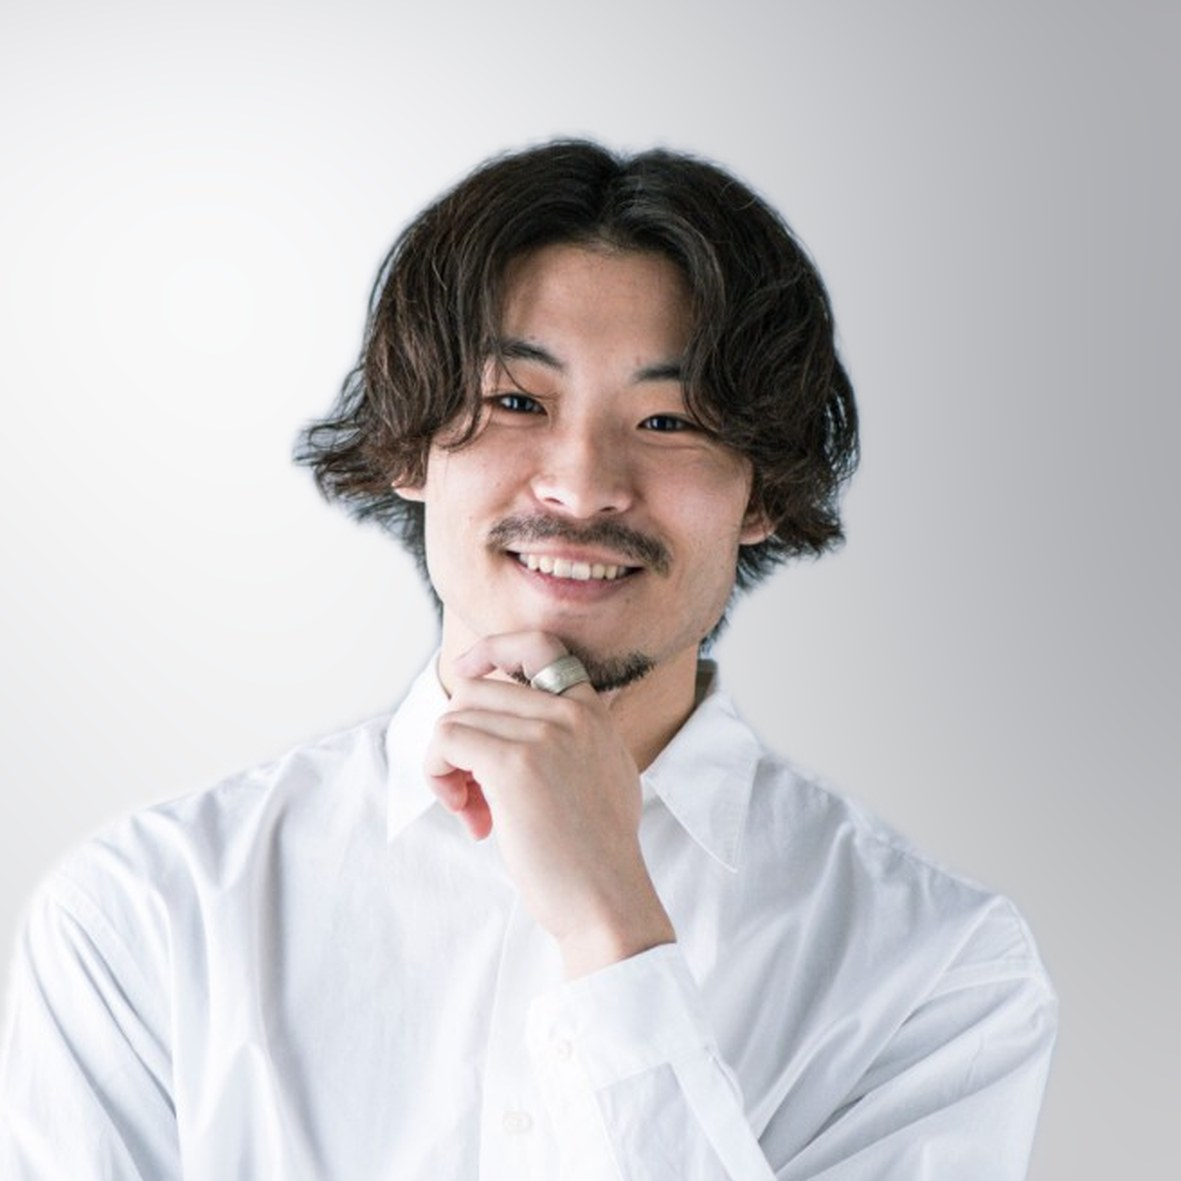
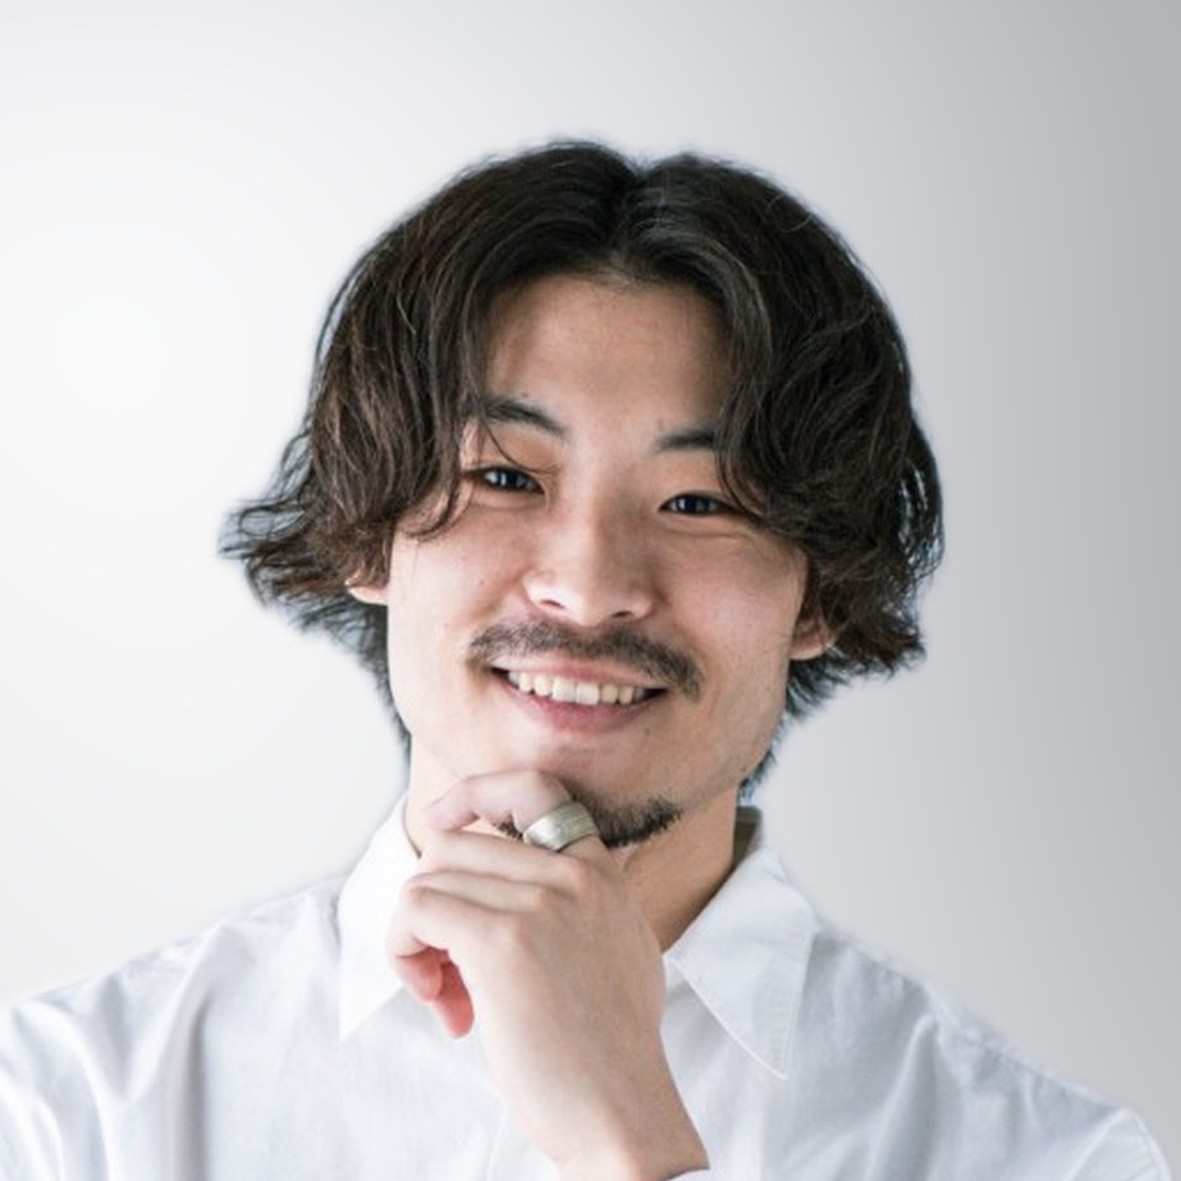
マネジメントチームに松本恭平を追加し、表示順と写真を調整
- 松本 恭平（SNSマーケター）を先頭に追加。背景を他メンバーと同じグレーに合成し、トリミングと肌のトーンを揃えた
- 宮下 蒼一朗の写真を他メンバーに合わせて寄りのトリミングに変更
- TeamMember に hidden を追加し、金 優樹を非表示に（データは保持）
- 表示順と非表示メンバーの回帰テストを追加

diff --git a/astro-site/src/data/team.ts b/astro-site/src/data/team.ts
@@ -3,6 +3,7 @@ import cooImage from "../assets/images/COO-image.webp";
 import csoImage from "../assets/images/CSO-image.webp";
 import travelImage from "../assets/images/teamMemberImage1.jpg";
 import mrTokyoImage from "../assets/images/mr_tokyo_image.webp";
+import matsumotoImage from "../assets/images/teamMemberImage-matsumoto.jpg";
 import hayashiImage from "../assets/images/teamMemberImage4.jpg";
 import marketerOne from "../assets/images/teamMemberImage2.jpg";
 import miyashitaImage from "../assets/images/teamMemberImage-miyashita.jpg";
@@ -70,10 +71,11 @@ export const mediaProfiles: MediaProfile[] = [
 ];
 
 export const projectTeam: TeamMember[] = [
+  { name: "松本 恭平", role: "SNSマーケター", image: matsumotoImage },
   { name: "林 健斗", role: "SNSマーケター", image: hayashiImage },
   { name: "本間 大嗣", role: "SNSマーケター", image: marketerOne },
   { name: "宮下 蒼一朗", role: "開発・映像クリエイター", image: miyashitaImage },
   { name: "石井 克樹", role: "映像クリエイター", image: creatorOne },
-  { name: "金 優樹", role: "映像クリエイター", image: creatorTwo },
+  { name: "金 優樹", role: "映像クリエイター", image: creatorTwo, hidden: true },
   { name: "杉本 雅", role: "映像クリエイター", image: creatorThree }
 ];

diff --git a/astro-site/tests/build-regressions.test.js b/astro-site/tests/build-regressions.test.js
@@ -611,3 +611,20 @@ test("live htaccess redirects legacy detail ids to article slugs before fallback
   assert.equal(htaccess.includes("RewriteRule ^news-detail\\.html$ /sns-marketing/%1/? [R=301,L,NC]"), true);
   assert.equal(htaccess.includes("RewriteRule ^news-detail\\.html$ /sns-marketing/? [R=301,L]"), true);
 });
+
+test("about-us build lists management team in order and omits hidden members", () => {
+  runBuild({
+    CI: "",
+    MICROCMS_SERVICE_DOMAIN: "",
+    MICROCMS_API_KEY: "",
+    MICROCMS_ENDPOINT: "blog"
+  });
+
+  const dom = new JSDOM(readBuiltHtml(path.join("about-us", "index.html")));
+  const { document } = dom.window;
+  const names = Array.from(document.querySelectorAll(".team-minimal-grid-project .team-minimal-name")).map((node) =>
+    node.textContent.trim()
+  );
+
+  assert.deepEqual(names, ["松本 恭平", "林 健斗", "本間 大嗣", "宮下 蒼一朗", "石井 克樹", "杉本 雅"]);
+});

diff --git a/astro-site/src/lib/types.ts b/astro-site/src/lib/types.ts
@@ -50,4 +50,6 @@ export interface TeamMember {
   name: string;
   role: string;
   image: ImageMetadata;
+  /** true のメンバーはサイトに表示しない（データは残す） */
+  hidden?: boolean;
 }
